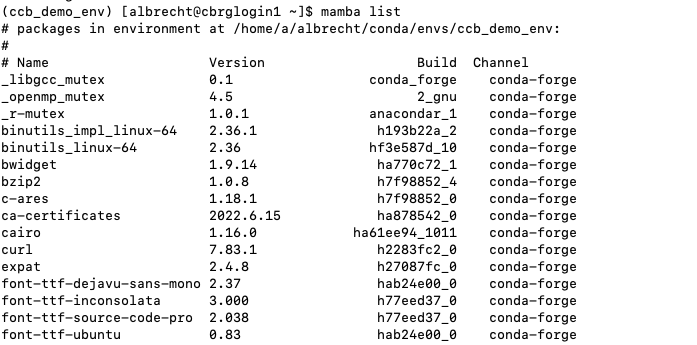
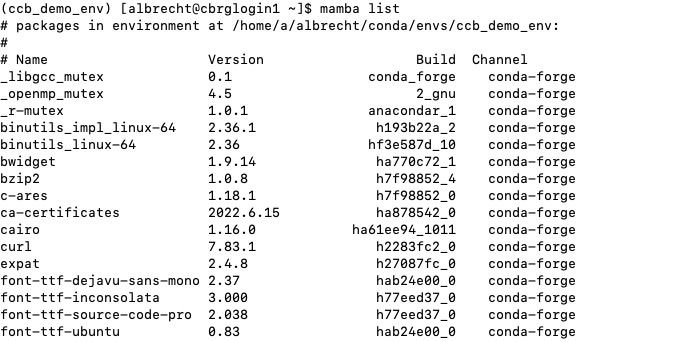
crop screenshot

Changed region(s): [[0.0, 0.0, 0.8147, 0.9942], [0.5129, 0.1462, 0.8448, 0.9942], [0.694, 0.9649, 0.8448, 0.9942]]

diff --git a/content/en/docs/conda/environments/index.md b/content/en/docs/conda/environments/index.md
@@ -148,7 +148,7 @@ mamba install python r-base
 
 ![Installing packages in the active environment.](mamba-install-active-environment.png)
 
-{{< alert icon="👉" text="Due to the considerable number of dependencies that need to be installed, the screenshot above only displays a the first lines of the package installation plan." />}}
+{{< alert icon="👉" text="Due to the considerable number of dependencies that need to be installed, the screenshot above only displays the first lines of the package installation plan." />}}
 
 Remember to type `Y` and press the Return key when prompted to proceed with the
 package installation plan.
@@ -161,6 +161,8 @@ mamba list
 ```
 
 ![Displaying the list of packages installed in the 'ccb_demo_env' environment after installing the packages 'python' and 'r-base'.](mamba-list-ccb_demo_env-installed.png)
+
+{{< alert icon="👉" text="Due to the considerable number of packges installed in the environment, the screenshot above only displays the first lines of output." />}}
 
 The Bash command `which` can also be used to verify that the `python` and `R`
 executable files are now available from within the Conda environment.
